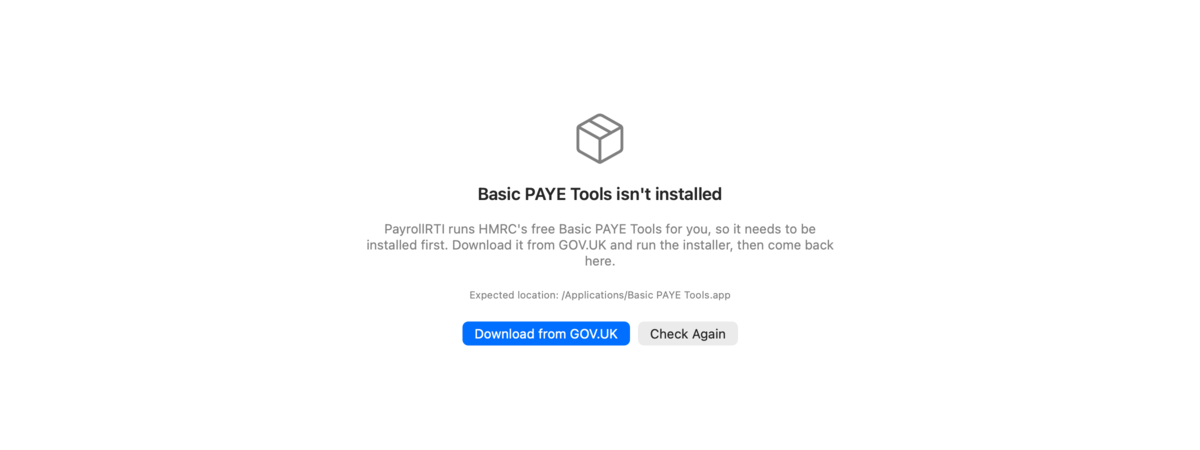
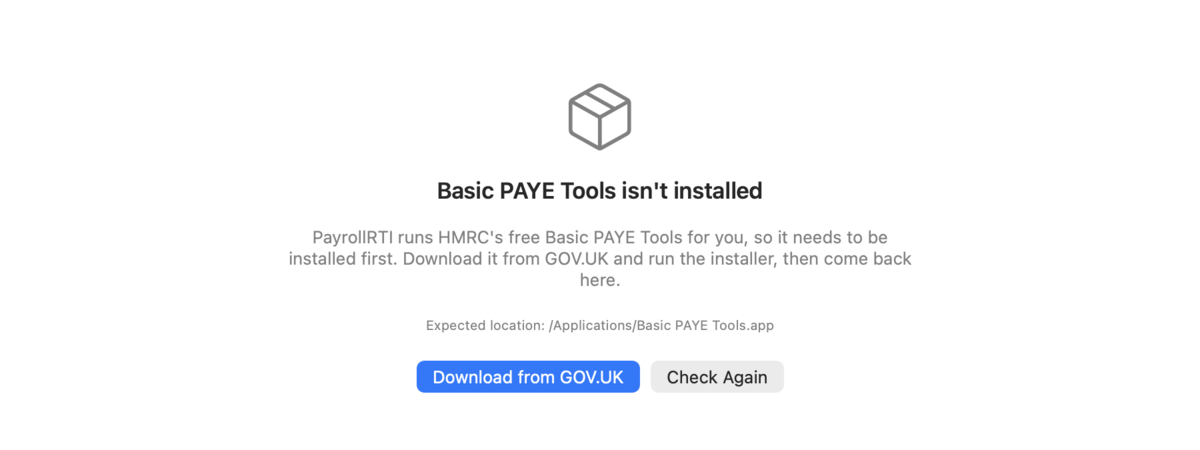
Remove marketing and design material; use a light not-installed screenshot
Drop docs/marketing, scripts/marketing-shots.sh and the design/ sources along with
scripts/generate-icons.sh and the marketing-only scripted shots in DebugSnapshot. The DMG background moves
to scripts/ beside release.sh and the README logo comes from the app icon set.

The not-installed screenshot had a transparent background, so it was invisible on GitHub's dark theme.
Replace it with an opaque light-mode capture.

diff --git a/PayrollRTI/Sources/App/DebugSnapshot.swift b/PayrollRTI/Sources/App/DebugSnapshot.swift
@@ -6,16 +6,14 @@
     /// Debug builds only. Renders the app's own windows to PNG (at the display's Retina scale) without needing
     /// screen-recording access:
     ///
-    /// - `-debugSnapshotDir <dir>`: a PNG of the main window each time the server state changes.
-    /// - `-debugShotsDir <dir>`: once BPT is running, a scripted set of shots: the main window, then each page in
-    ///   `-debugShotPages "name=/path/,…"`. Writes `<dir>/.done` when finished. (SwiftUI forms such as Settings
-    ///   don't render this way, and nor do menus; those need a real screen capture.)
+    /// - `-debugSnapshotDir <dir>`: a PNG of the main window, title bar included, each time the server state
+    ///   changes. (SwiftUI forms such as Settings don't render this way, and nor do menus; those need a real screen
+    ///   capture.)
     /// - `-debugWindowSize 1440x900`: main window content size, in points.
     /// - `-debugAppearance light|dark`: force the app's appearance.
     @MainActor
     enum DebugSnapshot {
         private static var cancellable: AnyCancellable?
-        private static var shotsCancellable: AnyCancellable?
         private static var counter = 0
 
         static func startIfRequested(server: ServerController) {
@@ -24,11 +22,6 @@
             case "dark": NSApp.appearance = NSAppearance(named: .darkAqua)
             case "light": NSApp.appearance = NSAppearance(named: .aqua)
             default: break
-            }
-            if let dir = defaults.string(forKey: "debugShotsDir") {
-                shotsCancellable = server.$state.first { $0 == .running }.sink { _ in
-                    Task { await takeShots(in: URL(fileURLWithPath: dir), server: server) }
-                }
             }
             guard let path = defaults.string(forKey: "debugSnapshotDir") else { return }
             let directory = URL(fileURLWithPath: path)
@@ -40,42 +33,14 @@
                 Task {
                     // Give SwiftUI and the web view time to settle.
                     try? await Task.sleep(nanoseconds: 2_500_000_000)
-                    await capture(to: directory.appendingPathComponent(name), includingFrame: true)
+                    await capture(to: directory.appendingPathComponent(name))
                 }
             }
-        }
-
-        private static var mainWebView: WKWebView? {
-            mainWindow?.contentView.flatMap { webViews(in: $0).first }
         }
 
         private static var mainWindow: NSWindow? {
             NSApp.windows.filter { $0.isVisible && $0.title == "Basic PAYE Tools" }
                 .max { $0.frame.width < $1.frame.width }
-        }
-
-        private static func takeShots(in directory: URL, server: ServerController) async {
-            try? FileManager.default.createDirectory(at: directory, withIntermediateDirectories: true)
-            let settle: UInt64 = 3_000_000_000
-            prepareMainWindow()
-            try? await Task.sleep(nanoseconds: settle)
-            await capture(to: directory.appendingPathComponent("main.png"), includingFrame: true)
-
-            let pages = (UserDefaults.standard.string(forKey: "debugShotPages") ?? "").split(separator: ",")
-            for page in pages {
-                let parts = page.split(separator: "=", maxSplits: 1).map(String.init)
-                guard parts.count == 2, let webView = mainWebView,
-                    let url = URL(string: parts[1], relativeTo: server.baseURL)
-                else { continue }
-                webView.load(URLRequest(url: url))
-                try? await Task.sleep(nanoseconds: settle)
-                await capture(to: directory.appendingPathComponent("\(parts[0]).png"), includingFrame: true)
-            }
-            if !pages.isEmpty, let webView = mainWebView {
-                webView.load(URLRequest(url: server.baseURL))
-            }
-
-            FileManager.default.createFile(atPath: directory.appendingPathComponent(".done").path, contents: nil)
         }
 
         /// Applies `-debugWindowSize` and makes the window key, so shots show active-window chrome.
@@ -92,16 +57,12 @@
             window.makeKeyAndOrderFront(nil)
         }
 
-        static func capture(to url: URL, includingFrame: Bool = false) async {
-            guard let window = mainWindow else { return }
-            await capture(window, to: url, includingFrame: includingFrame)
-        }
-
-        /// `includingFrame` renders the window's frame view, so the title bar and window buttons are included.
-        static func capture(_ window: NSWindow, to url: URL, includingFrame: Bool) async {
+        /// Renders the window's frame view, so the title bar and window buttons are included.
+        private static func capture(to url: URL) async {
             guard
+                let window = mainWindow,
                 let content = window.contentView,
-                case let view = includingFrame ? (content.superview ?? content) : content,
+                case let view = content.superview ?? content,
                 let rep = view.bitmapImageRepForCachingDisplay(in: view.bounds)
             else { return }
             view.cacheDisplay(in: view.bounds, to: rep)

diff --git a/README.md b/README.md
@@ -1,5 +1,5 @@
 <p align="center">
-  <img src="design/icon-512.png" width="128" height="128" alt="PayrollRTI icon">
+  <img src="PayrollRTI/Resources/Assets.xcassets/AppIcon.appiconset/icon_256x256@2x.png" width="128" height="128" alt="PayrollRTI icon">
 </p>
 
 <h1 align="center">PayrollRTI</h1>
@@ -181,7 +181,8 @@ open build/DerivedData/Build/Products/Debug/PayrollRTI.app --args -bptAppPath "/
 ```
 
 Debug builds also accept `-debugSnapshotDir <dir>`, which writes a PNG of the window each time the server state
-changes. That's how the screenshots above were made.
+changes. That's how the screenshots above were made, with `-debugAppearance light` so they stay readable on GitHub's
+dark theme and `-debugPretendBPTMissing YES` for the not-installed screen.
 
 The unit tests use the same approach. They start a stand-in server, stop it, check that it escalates to SIGKILL
 when SIGTERM is ignored, report a crash, and attach to a server that's already running.
